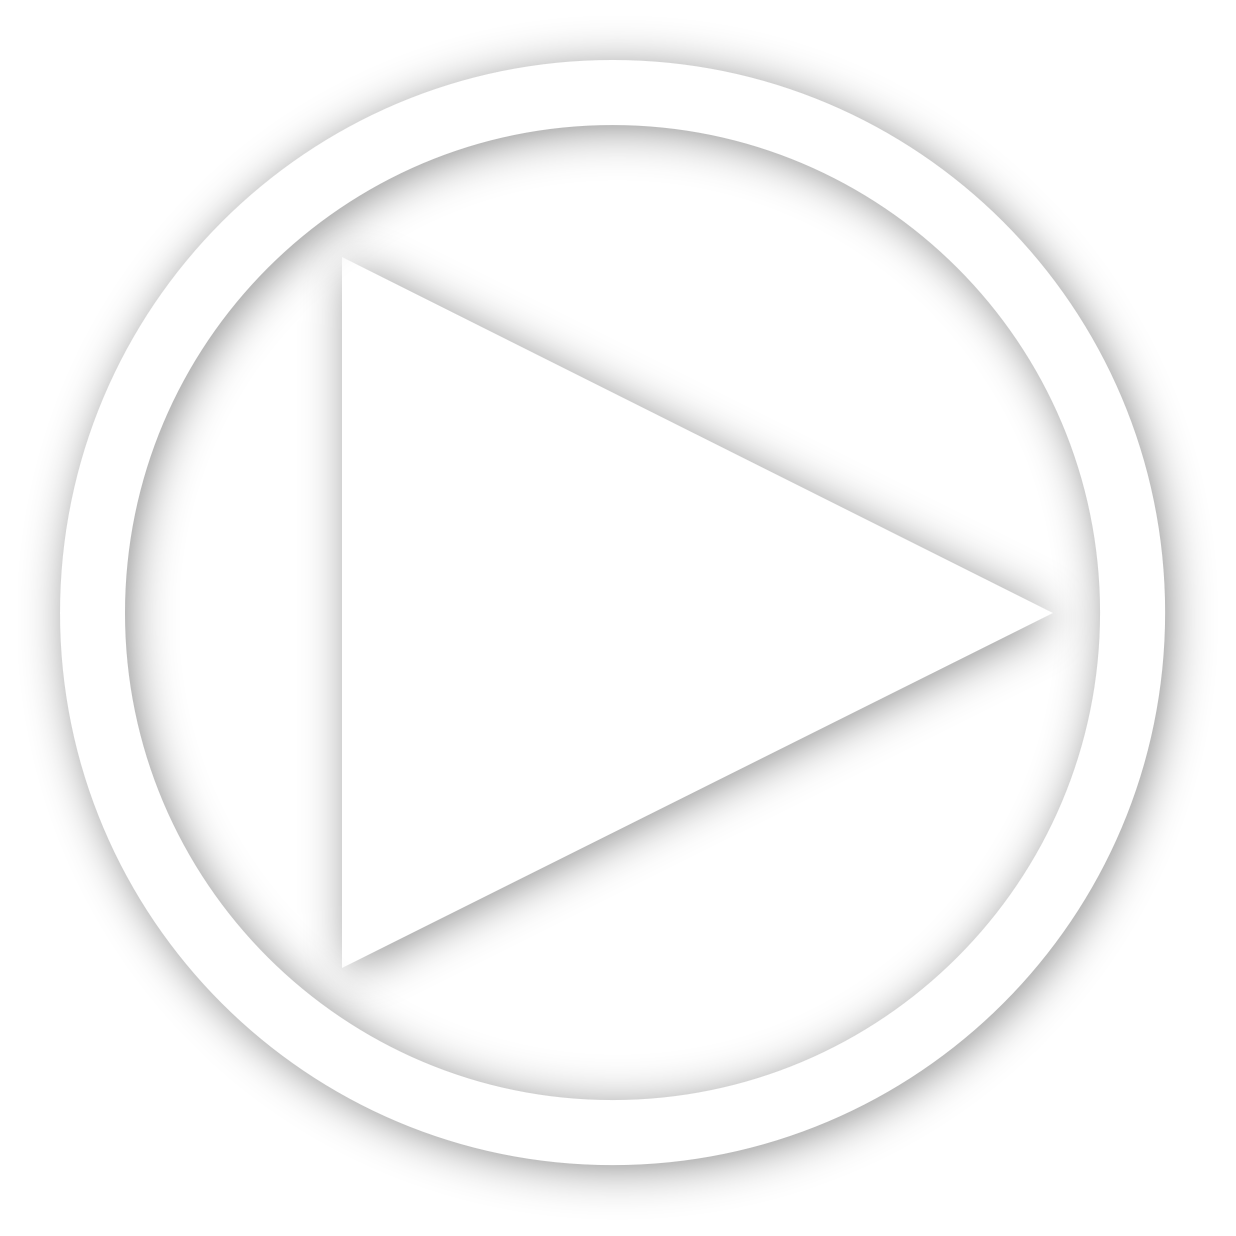
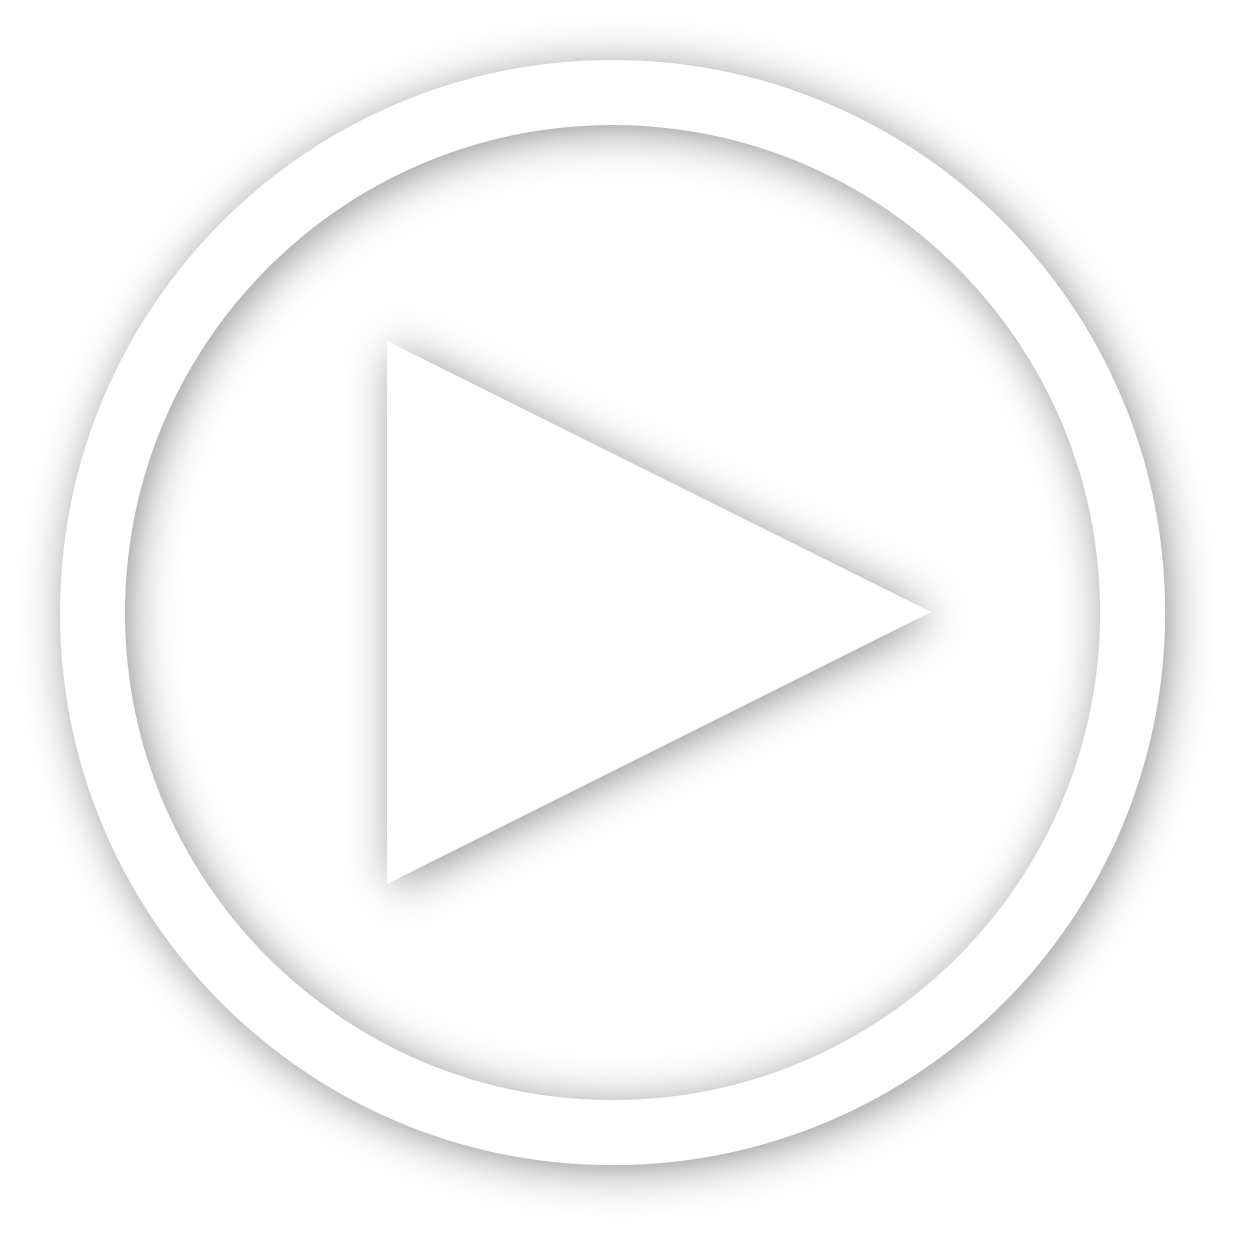
更改了图标样式 增加了部分单元测试

Changed region(s): [[0.246, 0.2152, 0.8608, 0.7994], [0.7379, 0.4304, 0.7994, 0.4612], [0.3074, 0.2152, 0.3689, 0.246]]

diff --git a/test/unit/specs/HelloWorld.spec.js b/test/unit/specs/HelloWorld.spec.js
@@ -2,10 +2,142 @@ import Vue from 'vue'
 import HelloWorld from '@/components/HelloWorld'
 
 describe('HelloWorld.vue', () => {
-  it('should render correct contents', () => {
-    const Constructor = Vue.extend(HelloWorld)
-    const vm = new Constructor().$mount()
-    expect(vm.$el.querySelector('.hello h1').textContent)
-    .to.equal('Welcome to Your Vue.js App')
+  it('pause and play', () => {
+    const Constructor = Vue.extend(HelloWorld);
+    const vm = new Constructor().$mount();
+    const play = vm.$el.querySelector('.play');
+    const click = new window.Event('click')
+    play.dispatchEvent(click);
+    vm._watcher.run();
+    expect(vm.play).to.equal(false);
+  })
+  it('nextSong', () => {
+    const Constructor = Vue.extend(HelloWorld);
+    const vm = new Constructor().$mount();
+    const nextB = vm.$el.querySelector('#nextButton');
+    const click = new window.Event('click')
+    nextB.dispatchEvent(click);
+    vm._watcher.run();
+    expect(vm.songIndex).to.equal(1);
+  })
+  it('lastSong', () => {
+    const Constructor = Vue.extend(HelloWorld);
+    const vm = new Constructor().$mount();
+    const nextB = vm.$el.querySelector('#lastButton');
+    const click = new window.Event('click')
+    nextB.dispatchEvent(click);
+    vm._watcher.run();
+    expect(vm.songIndex).to.equal(3);
+  })
+  /*
+  下面这个测试感觉代码有问题...可能是按Enter事件写错了，但是实在没有查到QAQ
+    it('add new song', () => {
+    const Constructor = Vue.extend(HelloWorld);
+    const vm = new Constructor().$mount();
+    vm.newSong = 'MINO';
+    const inP = vm.$el.querySelector('#input');
+    var e = new window.Event('keyup');
+    e.which = 13;
+    inP.dispatchEvent(e);
+    vm._watcher.run();
+    expect(vm.songsList).to.contain({name: 'MINO', singer: 'Unknown'});
+  })*/
+  it('Slist', () => {
+    const Constructor = Vue.extend(HelloWorld);
+    const vm = new Constructor().$mount();
+    const SList = vm.$el.querySelector('#Sicon');
+    var e = new window.Event('click');
+    SList.dispatchEvent(e);
+    vm._watcher.run();
+    expect(vm.List).to.equal(true);
+  })
+  it('Soption', () => {
+    const Constructor = Vue.extend(HelloWorld);
+    const vm = new Constructor().$mount();
+    const BGicon = vm.$el.querySelector('#BGicon');
+    var e = new window.Event('click');
+    BGicon.dispatchEvent(e);
+    vm._watcher.run();
+    expect(vm.option).to.equal(true);
+  })
+  it('deleteSong', () => {
+    const Constructor = Vue.extend(HelloWorld);
+    const vm = new Constructor().$mount();
+    const SList = vm.$el.querySelector('#Sicon');
+    var e = new window.Event('click');
+    SList.dispatchEvent(e);
+    vm._watcher.run();
+    expect(vm.List).to.equal(true);
+    const delte = vm.$el.querySelector('a');
+    delte.dispatchEvent(e);
+    vm._watcher.run();
+    expect(vm.songsList.length).to.equal(3);
+  })
+  it('lastBGimg', () => {
+    const Constructor = Vue.extend(HelloWorld);
+    const vm = new Constructor().$mount();
+    const BGicon = vm.$el.querySelector('#BGicon');
+    var e = new window.Event('click');
+    BGicon.dispatchEvent(e);
+    vm._watcher.run();
+    expect(vm.option).to.equal(true);
+    const BGimg = vm.$el.querySelector('#lastBgI');
+    BGimg.dispatchEvent(e);
+    vm._watcher.run();
+    expect(vm.backgImgIndex).to.equal(5);
+  })
+  it('nextBGimg', () => {
+    const Constructor = Vue.extend(HelloWorld);
+    const vm = new Constructor().$mount();
+    const BGicon = vm.$el.querySelector('#BGicon');
+    var e = new window.Event('click');
+    BGicon.dispatchEvent(e);
+    vm._watcher.run();
+    expect(vm.option).to.equal(true);
+    const BGimg = vm.$el.querySelector('#nextBgI');
+    BGimg.dispatchEvent(e);
+    vm._watcher.run();
+    expect(vm.backgImgIndex).to.equal(1);
+  })
+  it('deleteAllSong', () => {
+    const Constructor = Vue.extend(HelloWorld);
+    const vm = new Constructor().$mount();
+    const SList = vm.$el.querySelector('#Sicon');
+    var e = new window.Event('click');
+    SList.dispatchEvent(e);
+    vm._watcher.run();
+    expect(vm.List).to.equal(true);
+    const delte = vm.$el.querySelector('a');
+    delte.dispatchEvent(e);
+    vm._watcher.run();
+    delte.dispatchEvent(e);
+    vm._watcher.run();
+    delte.dispatchEvent(e);
+    vm._watcher.run();
+    delte.dispatchEvent(e);
+    vm._watcher.run();
+    expect(vm.songsList.length).to.equal(1);
+  })
+  it('deleteAllSong', () => {
+    const Constructor = Vue.extend(HelloWorld);
+    const vm = new Constructor().$mount();
+    const SList = vm.$el.querySelector('#Sicon');
+    var e = new window.Event('click');
+    SList.dispatchEvent(e);
+    vm._watcher.run();
+    expect(vm.List).to.equal(true);
+    const delte = vm.$el.querySelector('a');
+    delte.dispatchEvent(e);
+    vm._watcher.run();
+    delte.dispatchEvent(e);
+    vm._watcher.run();
+    delte.dispatchEvent(e);
+    vm._watcher.run();
+    delte.dispatchEvent(e);
+    vm._watcher.run();
+    delte.dispatchEvent(e);
+    vm._watcher.run();
+    expect(vm.songsList.length).to.equal(1);
   })
 })
+

diff --git a/src/components/HelloWorld.vue b/src/components/HelloWorld.vue
@@ -2,15 +2,15 @@
   <div class="hello">
     <div class="backg">
       <div class="BGicon">
-        <img src="/static/img/主题.png" v-on:click = "changeThemeSwitch">
+        <img id="BGicon" src="/static/img/主题.png" v-on:click = "changeThemeSwitch">
       </div>
       <div class="options">
         <template v-if="option">
           <div class="lastBgI">
-            <img src="/static/img/背景图片切换1.png" v-on:click = "subBgI">
+            <img id="lastBgI" src="/static/img/背景图片切换1.png" v-on:click = "subBgI">
           </div>
           <div class="nextBgI">
-            <img src="/static/img/背景图片切换2.png" v-on:click = "incBgI">
+            <img id="nextBgI" src="/static/img/背景图片切换2.png" v-on:click = "incBgI">
           </div>
         </template>
       </div>
@@ -21,7 +21,7 @@
 
     <div class="list">
       <div class="Sicon">
-        <img src="/static/img/列表.png" v-on:click = "showTheList">
+        <img id="Sicon" src="/static/img/列表.png" v-on:click = "showTheList">
       </div>
       <ul class="songs">
         <template v-if="List" v-for="(item, index) in songsList">
@@ -44,15 +44,15 @@
         {{songsList[songIndex].name}} - {{songsList[songIndex].singer}}
       </div>
       <div class="nextButton">
-        <img src="/static/img/下一首.png" v-on:click = "next">
+        <img id="nextButton" src="/static/img/下一首.png" v-on:click = "next">
       </div>
       <div class="lastButton">
-        <img src="/static/img/上一首.png" v-on:click = "last">
+        <img id="lastButton" src="/static/img/上一首.png" v-on:click = "last">
       </div>
     </div>
 
     <div class="input">
-      <input placeholder="请添加歌曲" v-model="newSong" v-on:keyup.enter = "addNewSong">
+      <input id="input" placeholder="请添加歌曲" v-model="newSong" v-on:keyup.enter = "addNewSong">
     </div>
   </div>
 </template>
